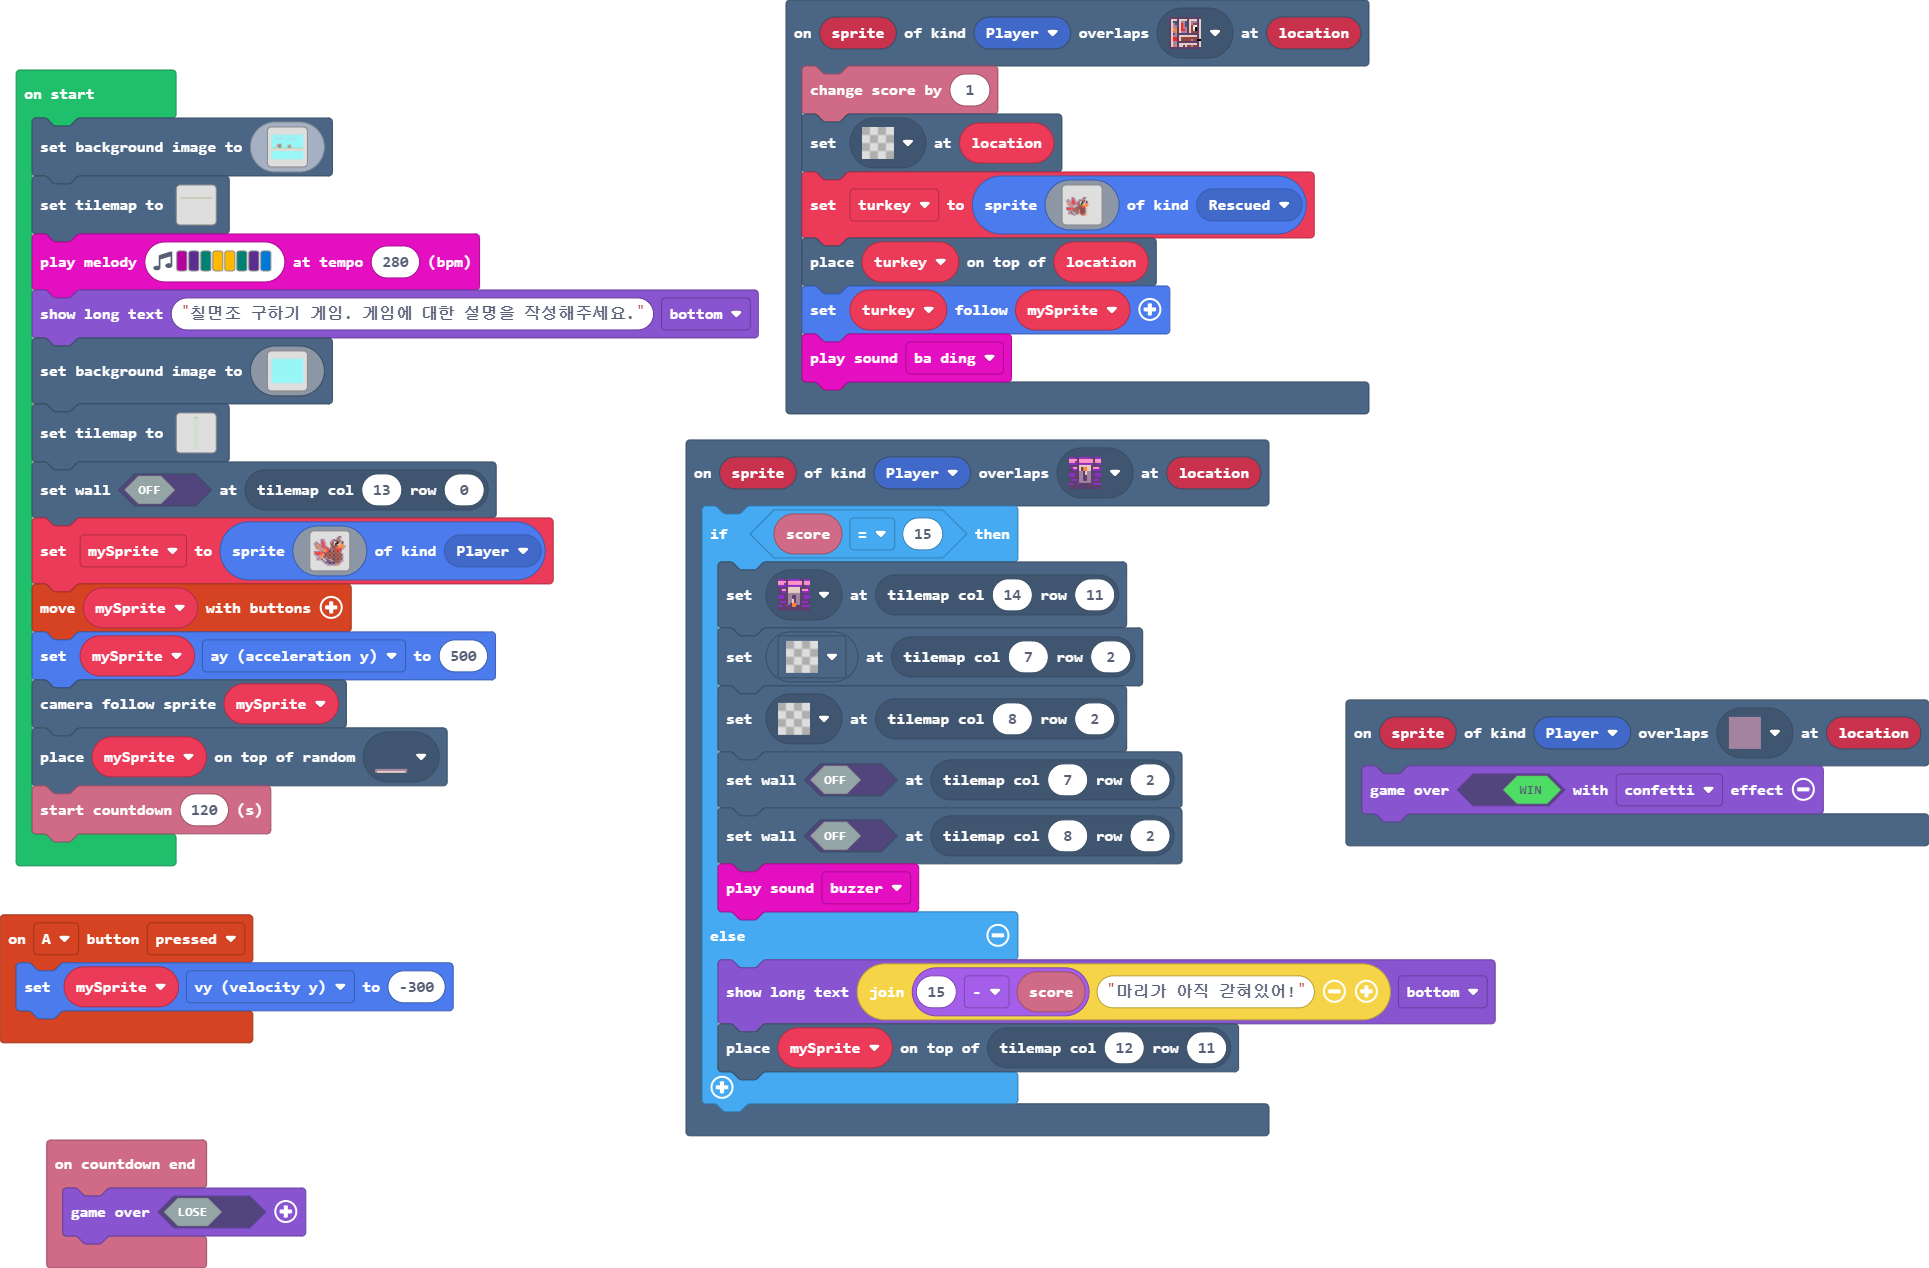
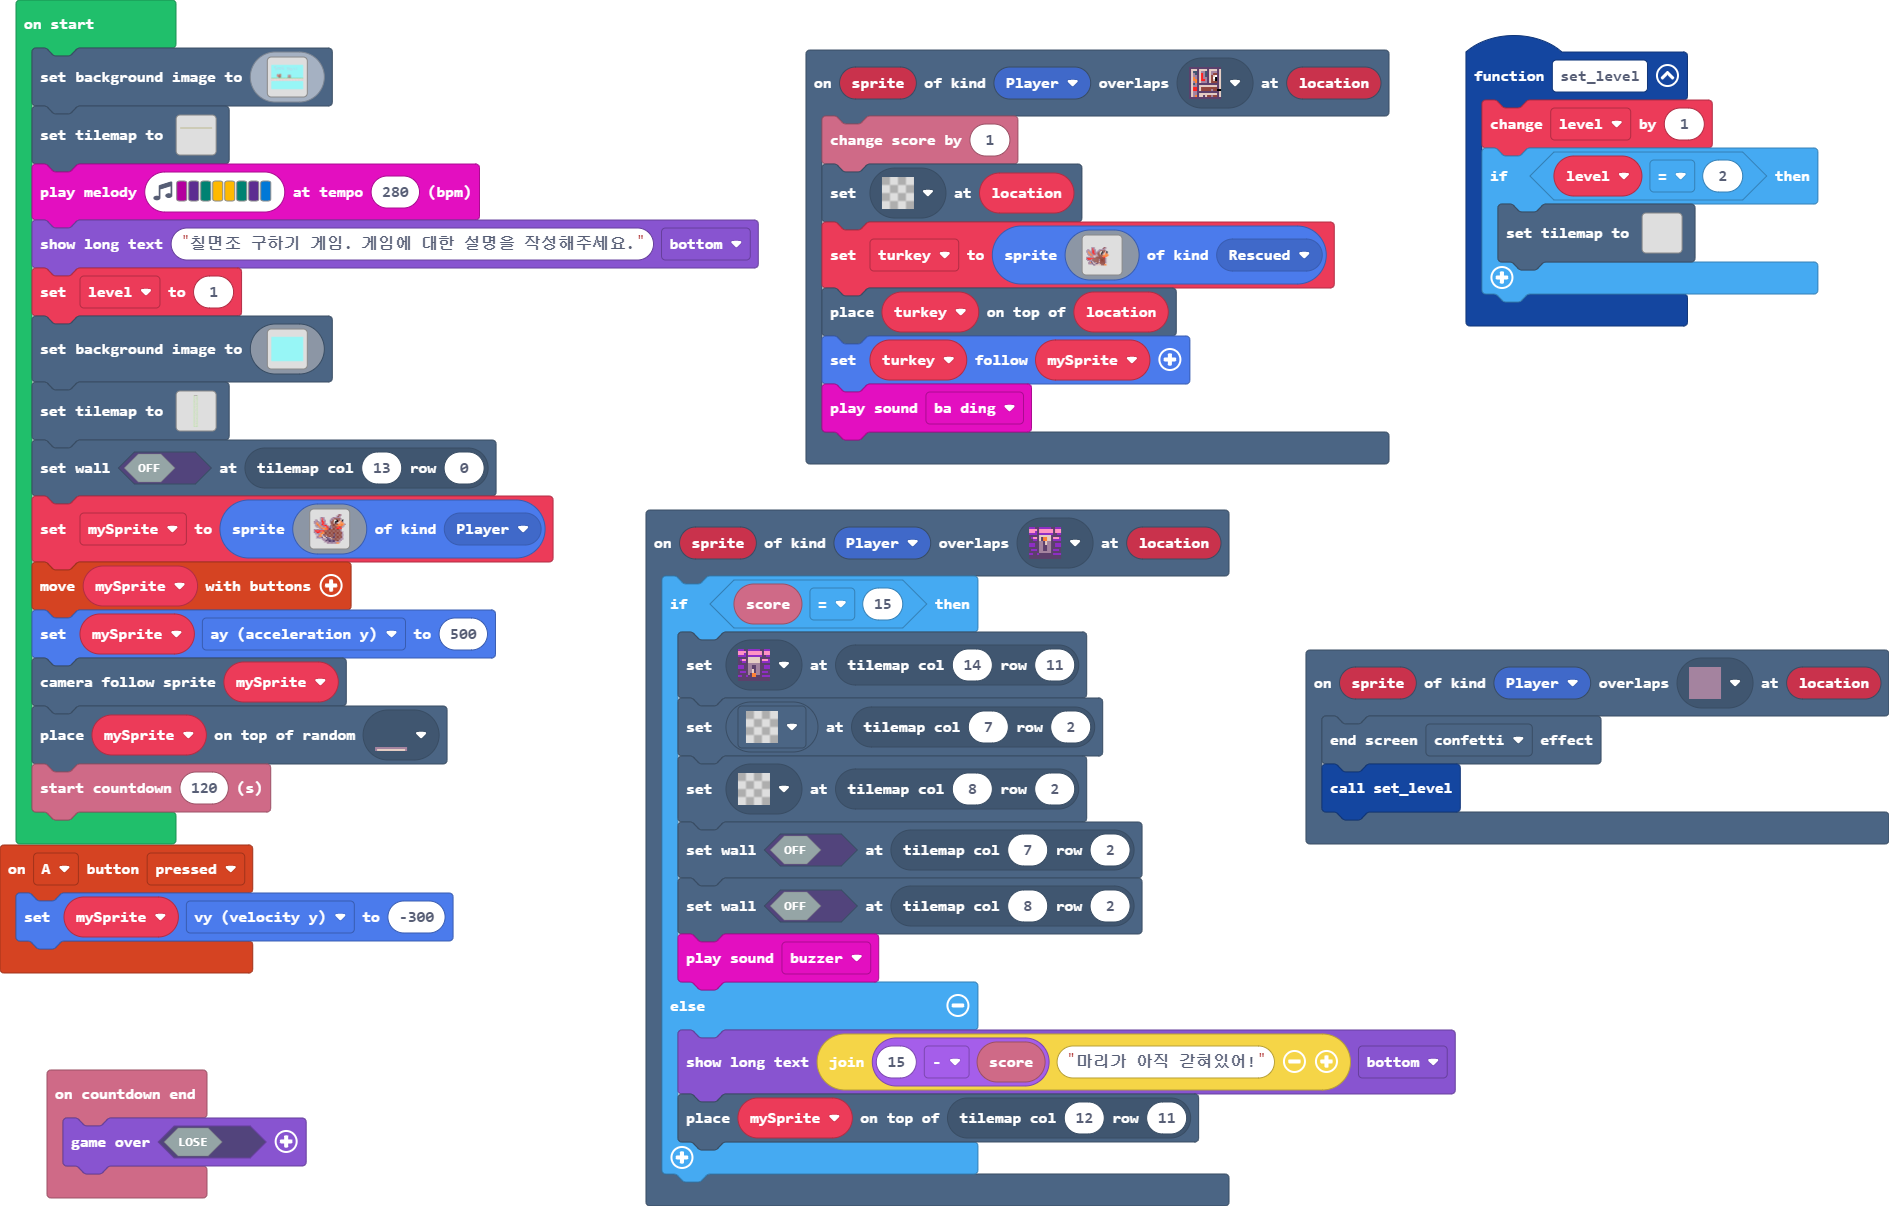
Added a function to advance to the next stage when clearing the game.

diff --git a/tilemap.g.ts b/tilemap.g.ts
@@ -84,8 +84,8 @@ namespace myTiles {
 . . . . . . . . . . . . . . . . 
 . . . . . . . . . . . . . . . . 
 `, [myTiles.transparency16,sprites.castle.tilePath2], TileScale.Sixteen);
-            case "level5":
-            case "level5":return tiles.createTilemap(hex`1000100000000000000000000000000000000000000000000000000000000000000000000000000000000000000000000000000000000000000000000000000000000000000000000000000000000000000000000000000000000000000000000000000000000000000000000000000000000000000000000000000000000000000000000000000000000000000000000000000000000000000000000000000000000000000000000000000000000000000000000000000000000000000000000000000000000000000000000000000000000000000000000000000000000000000000000000000000000000000000000000000000000000000000000000000000000000`, img`
+            case "level6":
+            case "level6":return tiles.createTilemap(hex`1000100000000000000000000000000000000000000000000000000000000000000000000000000000000000000000000000000000000000000000000000000000000000000000000000000000000000000000000000000000000000000000000000000000000000000000000000000000000000000000000000000000000000000000000000000000000000000000000000000000000000000000000000000000000000000000000000000000000000000000000000000000000000000000000000000000000000000000000000000000000000000000000000000000000000000000000000000000000000000000000000000000000000000000000000000000000000`, img`
 . . . . . . . . . . . . . . . . 
 . . . . . . . . . . . . . . . . 
 . . . . . . . . . . . . . . . . 
@@ -103,8 +103,8 @@ namespace myTiles {
 . . . . . . . . . . . . . . . . 
 . . . . . . . . . . . . . . . . 
 `, [myTiles.transparency16], TileScale.Sixteen);
-            case "level6":
-            case "level6":return tiles.createTilemap(hex`1000100000000000000000000000000000000000000000000000000000000000000000000000000000000000000000000000000000000000000000000000000000000000000000000000000000000000000000000000000000000000000000000000000000000000000000000000000000000000000000000000000000000000000000000000000000000000000000000000000000000000000000000000000000000000000000000000000000000000000000000000000000000000000000000000000000000000000000000000000000000000000000000000000000000000000000000000000000000000000000000000000000000000000000000000000000000000`, img`
+            case "level7":
+            case "level7":return tiles.createTilemap(hex`1000100000000000000000000000000000000000000000000000000000000000000000000000000000000000000000000000000000000000000000000000000000000000000000000000000000000000000000000000000000000000000000000000000000000000000000000000000000000000000000000000000000000000000000000000000000000000000000000000000000000000000000000000000000000000000000000000000000000000000000000000000000000000000000000000000000000000000000000000000000000000000000000000000000000000000000000000000000000000000000000000000000000000000000000000000000000000`, img`
 . . . . . . . . . . . . . . . . 
 . . . . . . . . . . . . . . . . 
 . . . . . . . . . . . . . . . . 
@@ -285,6 +285,169 @@ namespace myTiles {
 2..............2
 2222222222222222
 `, [myTiles.transparency16,sprites.skillmap.islandTile3,sprites.skillmap.islandTile5,sprites.skillmap.islandTile1,sprites.castle.tilePath2,sprites.castle.tilePath1,sprites.castle.tilePath3,myTiles.tile2,myTiles.tile6,sprites.dungeon.purpleSwitchUp,sprites.swamp.swampTile16,myTiles.tile10,sprites.builtin.field1,sprites.dungeon.hazardHole], TileScale.Sixteen);
+            case "level5":
[1 lines of base64/hex data omitted]
+................
+................
+................
+................
+................
+................
+................
+................
+................
+................
+................
+................
+................
+................
+................
+................
+................
+................
+................
+................
+................
+................
+................
+................
+................
+................
+................
+................
+................
+................
+................
+................
+................
+................
+................
+................
+................
+................
+................
+................
+................
+................
+................
+................
+................
+................
+................
+................
+................
+................
+................
+................
+................
+................
+................
+................
+................
+................
+................
+................
+................
+................
+................
+................
+................
+................
+................
+................
+................
+................
+................
+................
+................
+................
+................
+................
+................
+................
+................
+................
+................
+................
+................
+................
+................
+................
+................
+................
+................
+................
+................
+................
+................
+................
+................
+................
+................
+................
+................
+................
+................
+................
+................
+................
+................
+................
+................
+................
+................
+................
+................
+................
+................
+................
+................
+................
+................
+................
+................
+................
+................
+................
+................
+................
+................
+................
+................
+................
+................
+................
+................
+................
+................
+................
+................
+................
+................
+................
+................
+................
+................
+................
+................
+................
+................
+................
+................
+................
+................
+................
+................
+................
+................
+................
+................
+................
+................
+................
+................
+................
+`, [myTiles.transparency16], TileScale.Sixteen);
         }
         return null;
     })

diff --git a/main.ts b/main.ts
@@ -6,6 +6,12 @@ enum ActionKind {
 namespace SpriteKind {
     export const Rescued = SpriteKind.create()
 }
+function set_level () {
+    level += 1
+    if (level == 2) {
+        tiles.setTilemap(tilemap`level5`)
+    }
+}
 controller.A.onEvent(ControllerButtonEvent.Pressed, function () {
     mySprite.vy = -300
 })
@@ -21,7 +27,8 @@ scene.onOverlapTile(SpriteKind.Player, assets.tile`cage`, function (sprite, loca
     music.baDing.play()
 })
 scene.onOverlapTile(SpriteKind.Player, sprites.swamp.swampTile16, function (sprite, location) {
-    game.over(true, effects.confetti)
+    effects.confetti.endScreenEffect()
+    set_level()
 })
 scene.onOverlapTile(SpriteKind.Player, sprites.dungeon.purpleSwitchUp, function (sprite, location) {
     if (info.score() == 15) {
@@ -38,6 +45,7 @@ scene.onOverlapTile(SpriteKind.Player, sprites.dungeon.purpleSwitchUp, function 
 })
 let turkey: Sprite = null
 let mySprite: Sprite = null
+let level = 0
 scene.setBackgroundImage(img`
     9999999999999999999999999999999999999999999999999999999999999999999999999999999999999999999999999999999999999999999999999999999999999999999999999999999999999999
     9999999999999999999999999999999999999999999999999999999999999999999999999999999999999999999999999999999999999999999999999999999999999999999999999999999999999999
@@ -163,6 +171,7 @@ scene.setBackgroundImage(img`
 tiles.setTilemap(tilemap`level3`)
 music.playMelody("C D F A A F D E ", 280)
 game.showLongText("칠면조 구하기 게임. 게임에 대한 설명을 작성해주세요.", DialogLayout.Bottom)
+level = 1
 scene.setBackgroundImage(img`
     9999999999999999999999999999999999999999999999999999999999999999999999999999999999999999999999999999999999999999999999999999999999999999999999999999999999999999
     9999999999999999999999999999999999999999999999999999999999999999999999999999999999999999999999999999999999999999999999999999999999999999999999999999999999999999
